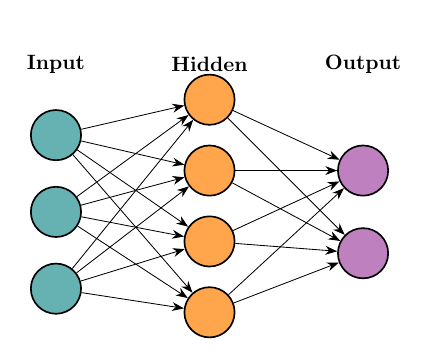
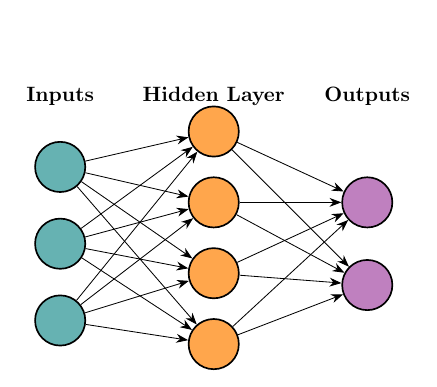
.

diff --git a/img/cartoons/neuron_model.tex b/img/cartoons/neuron_model.tex
@@ -1,0 +1,66 @@
+\documentclass[tikz,border=10pt]{standalone}
+\usepackage{tikz}
+\usetikzlibrary{positioning, arrows.meta}
+
+\begin{document}
+\begin{tikzpicture}[
+    >={Stealth[length=2mm]},
+    terminal/.style = {circle, draw=black, thick, fill=white, minimum size=0.22cm, inner sep=0pt},
+    wnode/.style    = {circle, draw=black, thick, minimum size=1.05cm},
+    sumnode/.style  = {circle, draw=black, thick, minimum size=1.3cm, font=\LARGE},
+    actnode/.style  = {rectangle, draw=black, thick, minimum size=1.3cm},
+    blue/.style     = {text=blue!70!black},
+]
+
+% input terminals
+\node[terminal] (x1) at (0, 0)    {};
+\node[terminal] (x2) at (0, -1.6) {};
+\node[terminal] (xm) at (0, -4.2) {};
+\node[blue, left=0.15cm of x1] {$x_1$};
+\node[blue, left=0.15cm of x2] {$x_2$};
+\node[blue, left=0.15cm of xm] {$x_m$};
+\node at (0, -3.0) {$\vdots$};
+
+% bias terminal, centered above the summing junction
+\node[terminal] (bias) at (4.4, 1.6) {};
+\node[blue, above=0.05cm of bias, align=center] {Bias\\[-2pt]$b_k$};
+
+% weight nodes
+\node[wnode] (wk1) at (1.6, 0)    {$w_{k1}$};
+\node[wnode] (wk2) at (1.6, -1.6) {$w_{k2}$};
+\node[wnode] (wkm) at (1.6, -4.2) {$w_{km}$};
+\node at (1.6, -3.0) {$\vdots$};
+
+% summing junction
+\node[sumnode] (sum) at (4.4, -1.6) {$\Sigma$};
+
+% activation function box
+\node[actnode] (act) at (6.8, -1.6) {$\varphi(\cdot)$};
+
+% output terminal
+\node[terminal] (yout) at (9.0, -1.6) {};
+\node[blue, above=0.05cm of yout, align=center] {Output\\[-2pt]$y_k$};
+
+% edges: inputs -> weights
+\draw[->] (x1) -- (wk1);
+\draw[->] (x2) -- (wk2);
+\draw[->] (xm) -- (wkm);
+
+% edges: weights -> sum, bias -> sum
+\draw[->] (wk1) -- (sum);
+\draw[->] (wk2) -- (sum);
+\draw[->] (wkm) -- (sum);
+\draw[->] (bias) -- (sum);
+
+% sum -> activation -> output
+\draw[->] (sum) -- (act) node[midway, above] {$v_k$};
+\draw[->] (act) -- (yout);
+
+% captions below
+\node[align=center] at (0, -5.1) {Inputs};
+\node[align=center] at (1.6, -5.1) {Weights};
+\node[align=center] at (4.4, -2.9) {Transfer\\function};
+\node[align=center] at (6.8, -2.9) {Activation\\function};
+
+\end{tikzpicture}
+\end{document}

diff --git a/img/cartoons/small_nn.tex b/img/cartoons/small_nn.tex
@@ -1,0 +1,46 @@
+\documentclass[tikz,border=8pt]{standalone}
+\usepackage{tikz}
+\usetikzlibrary{positioning, arrows.meta}
+
+\begin{document}
+\begin{tikzpicture}[
+    every node/.style = {circle, draw=black, thick, minimum size=0.85cm},
+    input/.style  = {fill=teal!60},
+    hidden/.style = {fill=orange!70},
+    output/.style = {fill=violet!50},
+    label/.style  = {draw=none, fill=none, font=\bfseries},
+    >={Stealth[length=2mm]}
+]
+
+% input layer
+\node[input] (i1) at (0, 0)   {};
+\node[input] (i2) at (0, -1.3) {};
+\node[input] (i3) at (0, -2.6) {};
+
+% hidden layer
+\node[hidden] (h1) at (2.6, 0.6)   {};
+\node[hidden] (h2) at (2.6, -0.6)  {};
+\node[hidden] (h3) at (2.6, -1.8)  {};
+\node[hidden] (h4) at (2.6, -3.0)  {};
+
+% output layer
+\node[output] (o1) at (5.2, -0.6)  {};
+\node[output] (o2) at (5.2, -2.0)  {};
+
+% layer labels, all at the same height
+\node[label] at (0,   1.2) {Inputs};
+\node[label] at (2.6, 1.2) {Hidden Layer};
+\node[label] at (5.2, 1.2) {Outputs};
+
+% connections: input -> hidden
+\foreach \i in {1,2,3}
+    \foreach \h in {1,2,3,4}
+        \draw[->] (i\i) -- (h\h);
+
+% connections: hidden -> output
+\foreach \h in {1,2,3,4}
+    \foreach \o in {1,2}
+        \draw[->] (h\h) -- (o\o);
+
+\end{tikzpicture}
+\end{document}
